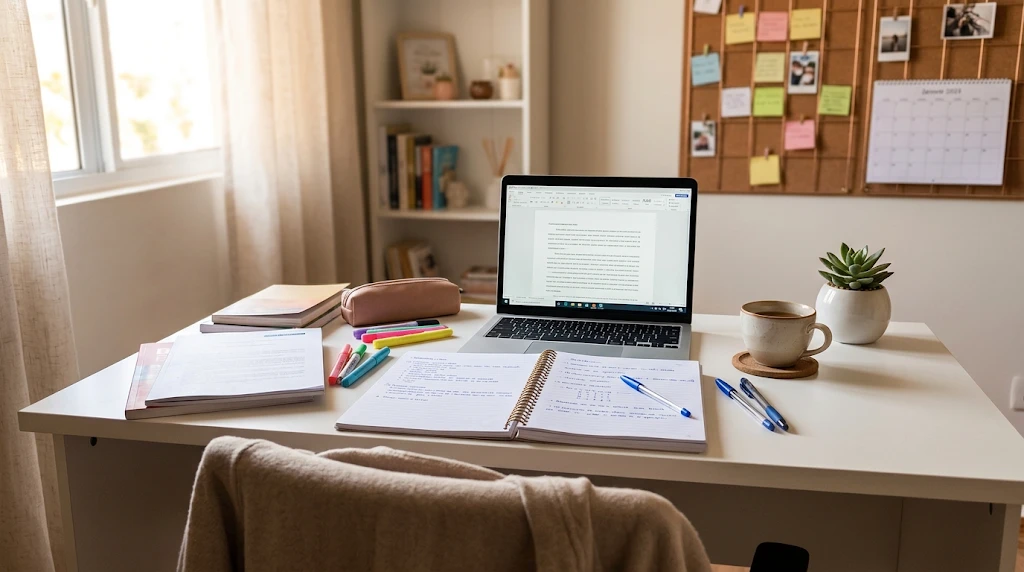
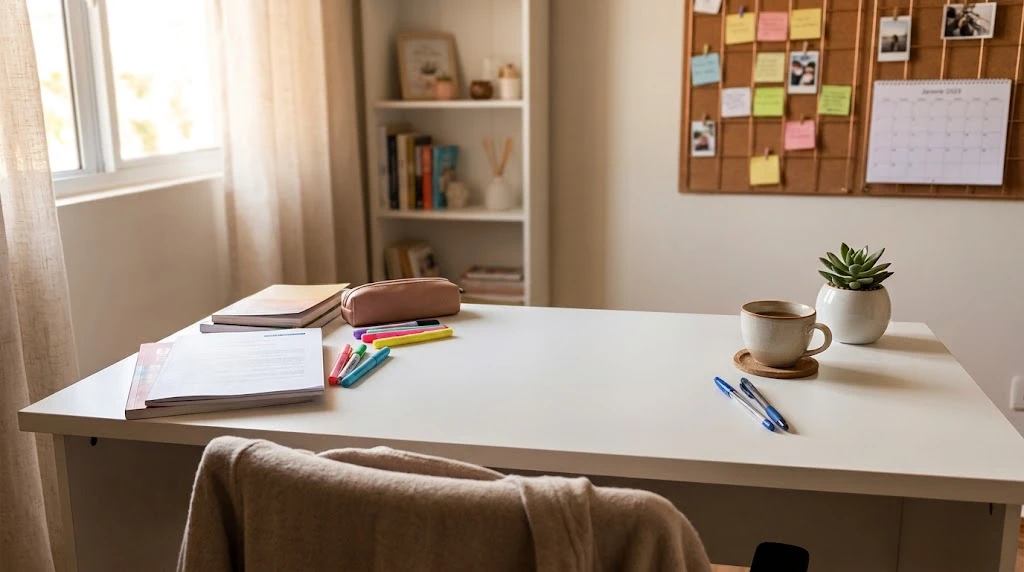
Lista de espera: foto da mesa sem o notebook

Changed region(s): [[0.3125, 0.2972, 0.75, 0.8024], [0.7188, 0.6241, 0.75, 0.6538]]

diff --git a/lista-espera.html b/lista-espera.html
@@ -21,7 +21,7 @@ j=d.createElement(s),dl=l!='dataLayer'?'&l='+l:'';j.async=true;j.src=
 <link rel="preconnect" href="https://fonts.googleapis.com">
 <link rel="preconnect" href="https://fonts.gstatic.com" crossorigin>
 <link href="https://fonts.googleapis.com/css2?family=Barlow+Condensed:wght@600;700&family=Inter:wght@400;500;600&display=swap" rel="stylesheet">
-<link rel="preload" as="image" href="landing/fotos/mesa-estudos.webp">
+<link rel="preload" as="image" href="landing/fotos/mesa-estudos.webp?v=2">
 <script>
   // Sem WebGL ou com movimento reduzido → versão estática (mesmo formulário).
   (function(){
@@ -166,7 +166,7 @@ j=d.createElement(s),dl=l!='dataLayer'?'&l='+l:'';j.async=true;j.src=
 
   /* ── Versão estática ── */
   .no3d #exp{height:auto}
-  .no3d .stage{position:relative;height:auto;min-height:100svh;background:url('landing/fotos/mesa-estudos.webp') center/cover no-repeat}
+  .no3d .stage{position:relative;height:auto;min-height:100svh;background:url('landing/fotos/mesa-estudos.webp?v=2') center/cover no-repeat}
   .no3d .stage::before{content:'';position:absolute;inset:0;background:linear-gradient(90deg,rgba(11,12,15,.85),rgba(11,12,15,.35))}
   .no3d #gl,.no3d .flash,.no3d #c1,.no3d #c2,.no3d .drag-hint,.no3d .loader,.no3d .chapters,.no3d .hint,.no3d .prog{display:none}
   .no3d #c3{position:relative;opacity:1;pointer-events:auto;min-height:100svh}
@@ -683,7 +683,7 @@ function boot(){
     prog.style.width = (pv * 100).toFixed(2) + '%';
   }
 
-  Promise.all([tex('landing/fotos/mesa-estudos.webp'), tex('landing/frames/hero/0205.webp')]).then(([a, b]) => {
+  Promise.all([tex('landing/fotos/mesa-estudos.webp?v=2'), tex('landing/frames/hero/0205.webp')]).then(([a, b]) => {
     T.fora = a; T.dentro = b; setState('A');
     $('loader').classList.add('off');
     window.FalconExp = { ready: true };
